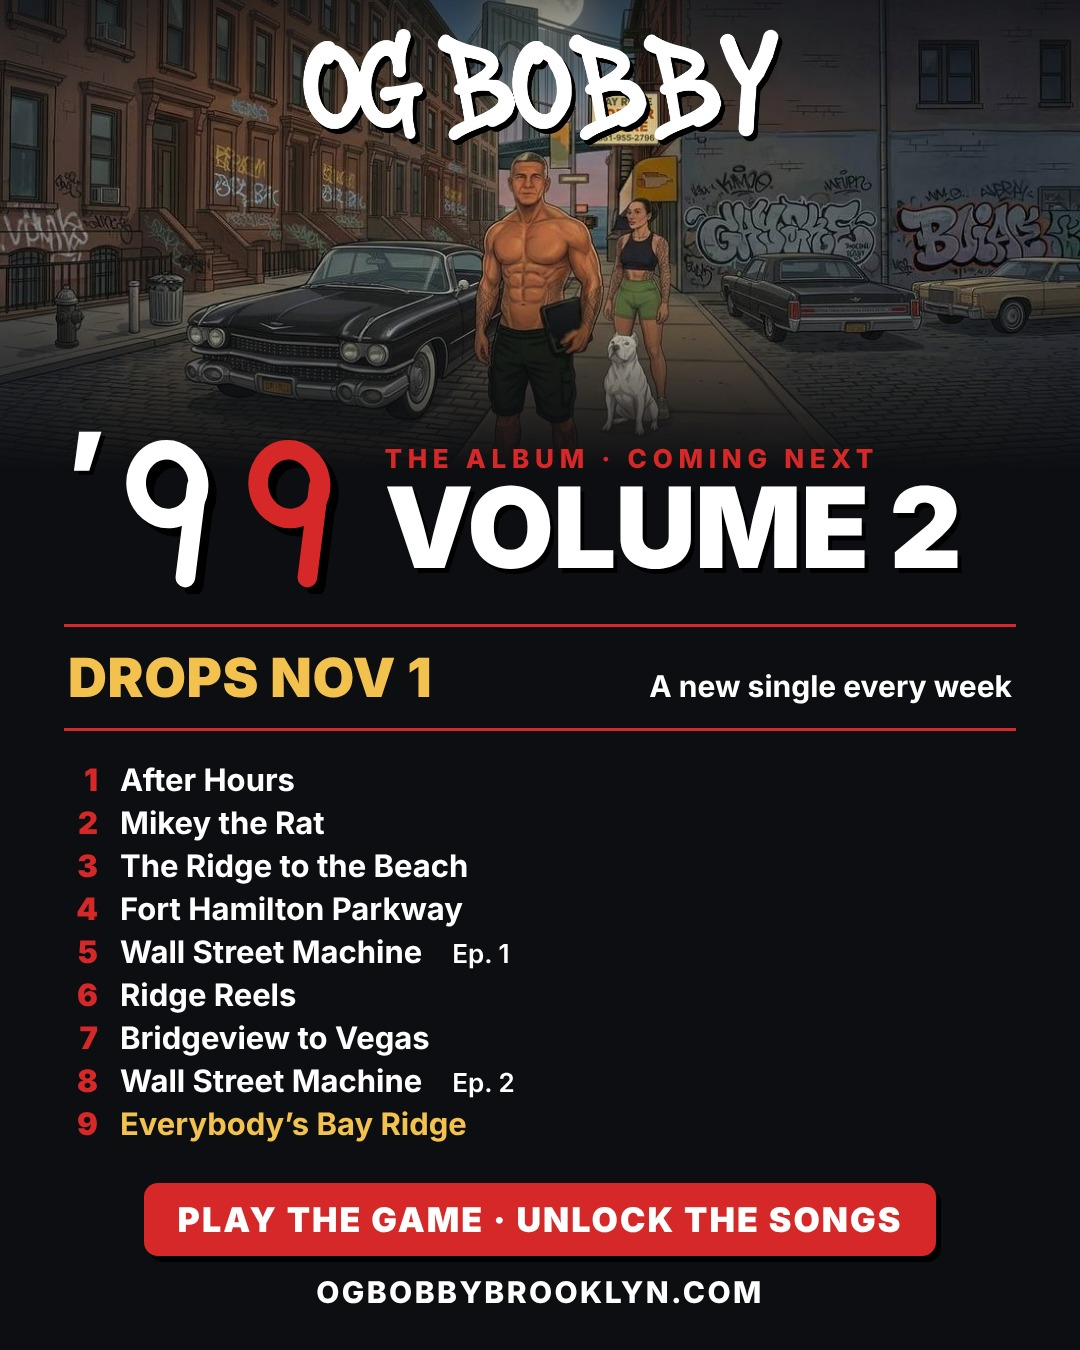
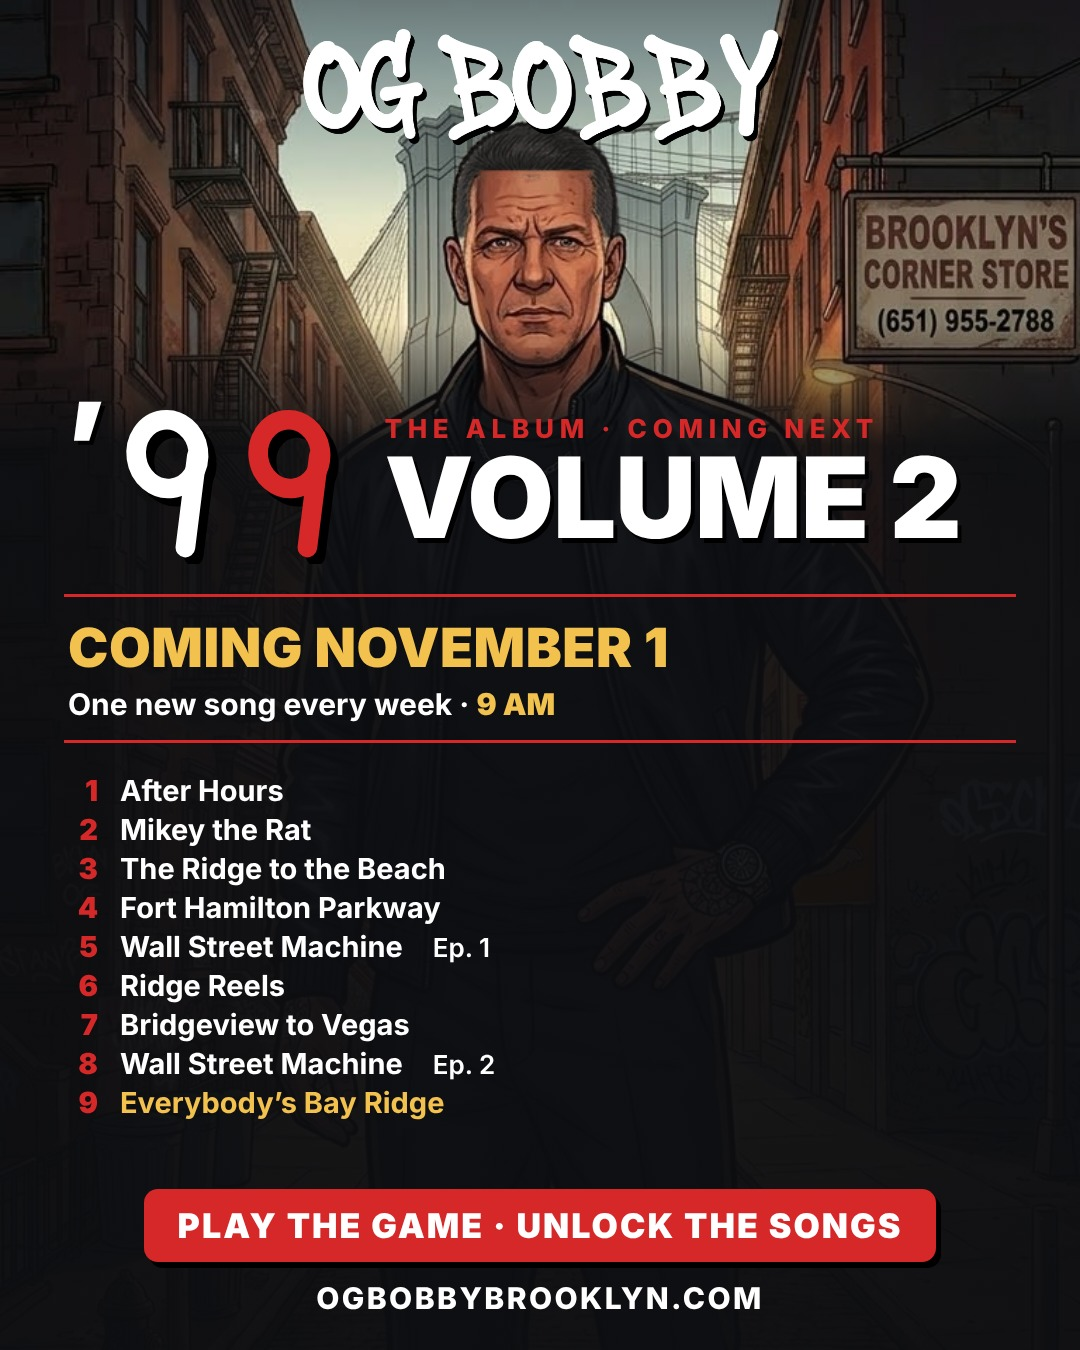
Vol. 2 promo: new artwork, coming Nov 1, one song a week at 9 AM; countdown and calendar set to 9 AM
Claude-Session: https://claude.ai/code/session_015HeceGqrCb47fBgbX6MdrJ

diff --git a/vol-2/index.html b/vol-2/index.html
@@ -3,15 +3,15 @@
 <meta charset="utf-8">
 <meta name="viewport" content="width=device-width, initial-scale=1">
 <title>OG Bobby · Volume 2</title>
-<meta name="description" content="'99 The Album, Volume 2. Drops November 1st, a new single every week. Play the game and unlock the songs.">
+<meta name="description" content="'99 The Album, Volume 2. Coming November 1st, one new song every week at 9 AM. Play the game and unlock the songs.">
 <meta property="og:type" content="music.album">
 <meta property="og:title" content="OG Bobby · Volume 2">
-<meta property="og:description" content="Drops November 1st. A new single every week. Play the game and unlock the songs.">
-<meta property="og:image" content="https://ogbobbybrooklyn.com/vol-2/vol2-feed.jpg">
+<meta property="og:description" content="Coming November 1st. One new song every week at 9 AM. Play the game and unlock the songs.">
+<meta property="og:image" content="https://ogbobbybrooklyn.com/vol-2/vol2-feed.jpg?v=2">
 <meta property="og:url" content="https://ogbobbybrooklyn.com/vol-2/">
 <meta name="twitter:card" content="summary_large_image">
 <meta name="twitter:title" content="OG Bobby · Volume 2">
-<meta name="twitter:image" content="https://ogbobbybrooklyn.com/vol-2/vol2-feed.jpg">
+<meta name="twitter:image" content="https://ogbobbybrooklyn.com/vol-2/vol2-feed.jpg?v=2">
 <link rel="icon" href="../icon-game.png?v=2">
 <link rel="apple-touch-icon" href="../icon-game.png?v=2">
 <style>
@@ -22,6 +22,6 @@ img { width: 100%; max-width: 540px; height: auto; display: block; border-radius
 a { display: block; width: 100%; max-width: 540px; text-align: center; text-decoration: none; font-weight: 800; letter-spacing: .06em; color: #fff; background: #d62828; padding: 16px; border-radius: 12px; }
 </style>
 </head><body>
-<img src="vol2-feed.jpg" alt="OG Bobby '99 The Album, Volume 2. Drops November 1st, a new single every week.">
+<img src="vol2-feed.jpg?v=2" alt="OG Bobby '99 The Album, Volume 2. Coming November 1st, one new song every week at 9 AM.">
 <a href="https://ogbobbybrooklyn.com/">PLAY THE GAME</a>
 </body></html>

diff --git a/index.html b/index.html
@@ -3408,8 +3408,8 @@ html, body, body.practice { background: #fff !important; }
   }
 
   /* ===================== 2 + 3. VOL. 2 COUNTDOWN + REMIND ME ===================== */
-  // first single Sunday Nov 1, 2026 (midnight New York time), then one a week for 9 weeks
-  const DROP0 = Date.parse("2026-11-01T00:00:00-04:00"), WEEK = 7 * 864e5;
+  // first single Sunday Nov 1, 2026 (9 AM New York time), then one a week for 9 weeks
+  const DROP0 = Date.parse("2026-11-01T09:00:00-05:00"), WEEK = 7 * 864e5;
   function nextDrop(now) {
     for (let k = 0; k < 9; k++) { const t = DROP0 + k * WEEK; if (t > now) return { t, k }; }
     return null;

diff --git a/lab-3f9e972d/index.html b/lab-3f9e972d/index.html
@@ -3384,8 +3384,8 @@ html, body, body.practice { background: #fff !important; }
   }
 
   /* ===================== 2 + 3. VOL. 2 COUNTDOWN + REMIND ME ===================== */
-  // first single Sunday Nov 1, 2026 (midnight New York time), then one a week for 9 weeks
-  const DROP0 = Date.parse("2026-11-01T00:00:00-04:00"), WEEK = 7 * 864e5;
+  // first single Sunday Nov 1, 2026 (9 AM New York time), then one a week for 9 weeks
+  const DROP0 = Date.parse("2026-11-01T09:00:00-05:00"), WEEK = 7 * 864e5;
   function nextDrop(now) {
     for (let k = 0; k < 9; k++) { const t = DROP0 + k * WEEK; if (t > now) return { t, k }; }
     return null;
